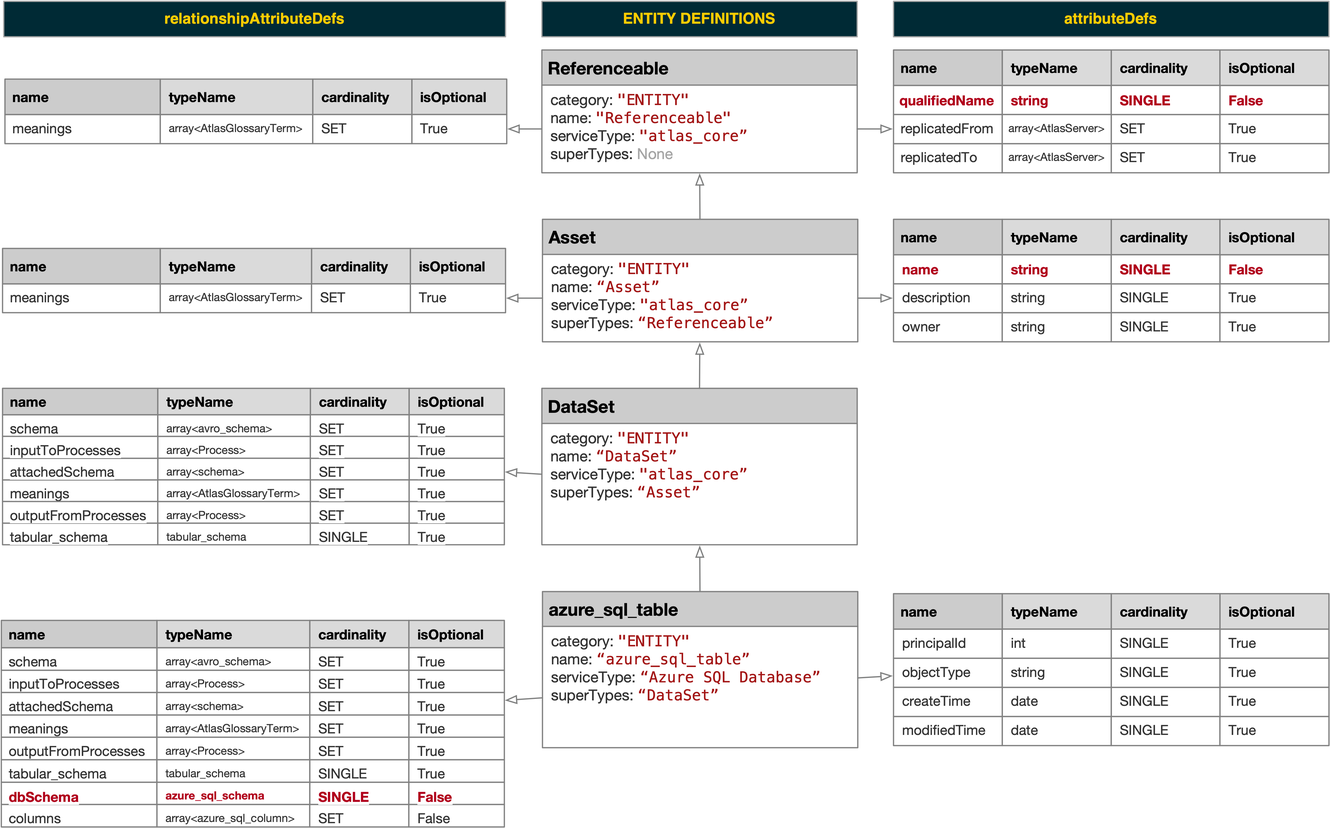
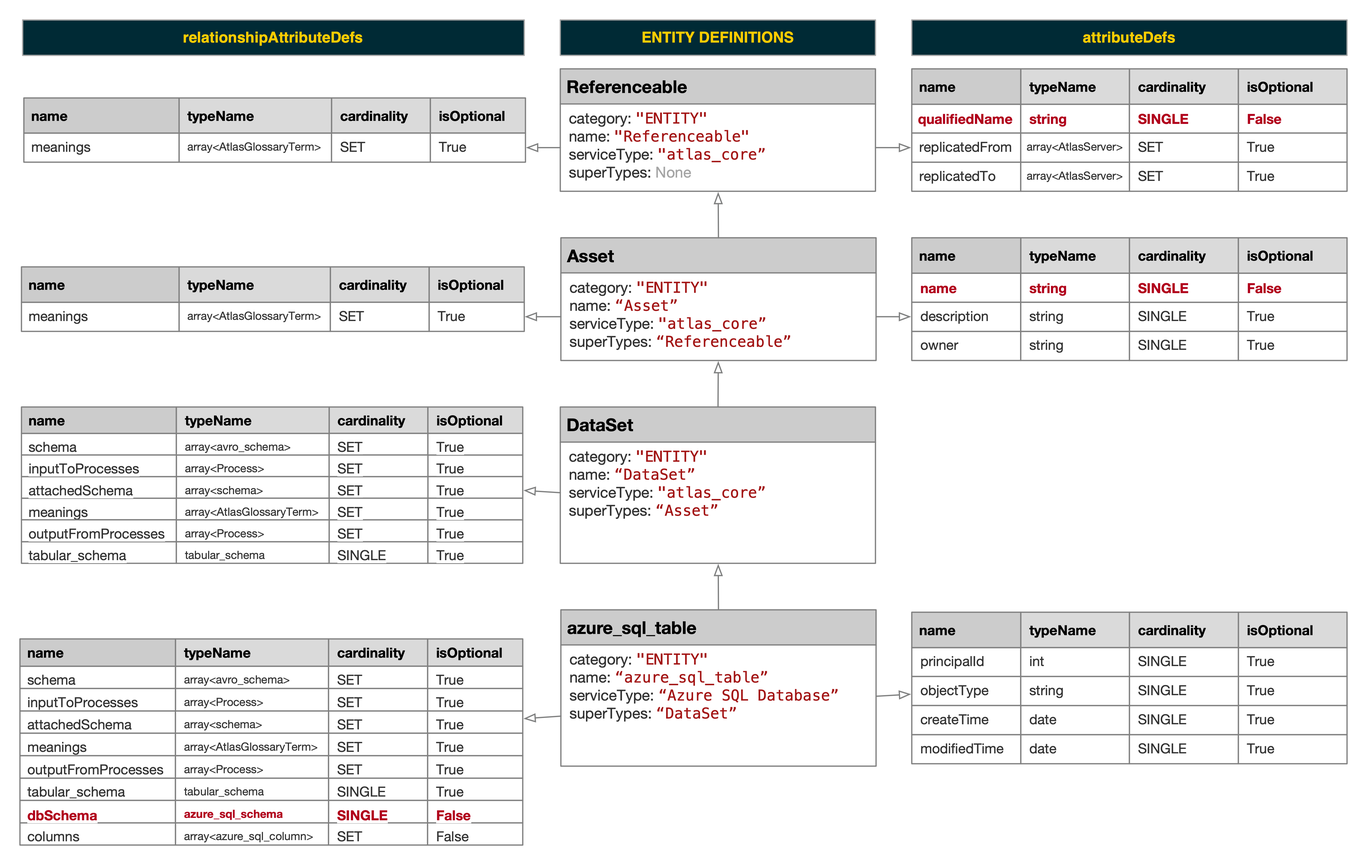
relationship

diff --git a/slides/slides.html b/slides/slides.html
@@ -61,24 +61,19 @@
 </foreignObject><foreignObject width="1280" height="720" data-marpit-advanced-background="pseudo"><section style="" data-marpit-advanced-background="pseudo"></section></foreignObject></svg><svg data-marpit-svg="" viewBox="0 0 1280 720"><foreignObject width="1280" height="720"><section data-marpit-advanced-background="background"><div data-marpit-advanced-background-container="true" data-marpit-advanced-background-direction="horizontal"><figure style="background-image:url(&quot;../image/def_classification.png&quot;);background-size:contain;"></figure></div></section></foreignObject><foreignObject width="1280" height="720"><section id="12" data-marpit-advanced-background="content"></section>
 </foreignObject><foreignObject width="1280" height="720" data-marpit-advanced-background="pseudo"><section style="" data-marpit-advanced-background="pseudo"></section></foreignObject></svg><svg data-marpit-svg="" viewBox="0 0 1280 720"><foreignObject width="1280" height="720"><section data-marpit-advanced-background="background"><div data-marpit-advanced-background-container="true" data-marpit-advanced-background-direction="horizontal"><figure style="background-image:url(&quot;../image/def_relationship.png&quot;);background-size:contain;"></figure></div></section></foreignObject><foreignObject width="1280" height="720"><section id="13" data-marpit-advanced-background="content"></section>
 </foreignObject><foreignObject width="1280" height="720" data-marpit-advanced-background="pseudo"><section style="" data-marpit-advanced-background="pseudo"></section></foreignObject></svg><svg data-marpit-svg="" viewBox="0 0 1280 720"><foreignObject width="1280" height="720"><section data-marpit-advanced-background="background"><div data-marpit-advanced-background-container="true" data-marpit-advanced-background-direction="horizontal"><figure style="background-image:url(&quot;../image/def_entity.png&quot;);background-size:contain;"></figure></div></section></foreignObject><foreignObject width="1280" height="720"><section id="14" data-marpit-advanced-background="content"></section>
-</foreignObject><foreignObject width="1280" height="720" data-marpit-advanced-background="pseudo"><section style="" data-marpit-advanced-background="pseudo"></section></foreignObject></svg><svg data-marpit-svg="" viewBox="0 0 1280 720"><foreignObject width="1280" height="720"><section id="15" data-footer="https://atlas.apache.org/2.0.0/TypeSystem.html">
+</foreignObject><foreignObject width="1280" height="720" data-marpit-advanced-background="pseudo"><section style="" data-marpit-advanced-background="pseudo"></section></foreignObject></svg><svg data-marpit-svg="" viewBox="0 0 1280 720"><foreignObject width="1280" height="720"><section data-marpit-advanced-background="background"><div data-marpit-advanced-background-container="true" data-marpit-advanced-background-direction="horizontal"><figure style="background-image:url(&quot;../image/def_entity_full.png&quot;);background-size:contain;"></figure></div></section></foreignObject><foreignObject width="1280" height="720"><section id="15" data-marpit-advanced-background="content"></section>
+</foreignObject><foreignObject width="1280" height="720" data-marpit-advanced-background="pseudo"><section style="" data-marpit-advanced-background="pseudo"></section></foreignObject></svg><svg data-marpit-svg="" viewBox="0 0 1280 720"><foreignObject width="1280" height="720"><section id="16" data-footer="https://atlas.apache.org/2.0.0/TypeSystem.html">
 <h3><img class="emoji" draggable="false" alt="📘" src="https://twemoji.maxcdn.com/2/svg/1f4d8.svg" data-marp-twemoji=""/> Entities</h3>
 <blockquote>
 <p><em>&quot;An ‘entity’ in Atlas is a specific value or instance of an Entity ‘type’ and thus represents a specific metadata object in the real world. Referring back to our analogy of Object Oriented Programming languages, an ‘instance’ is an ‘Object’ of a certain ‘Class’.&quot;</em></p>
 </blockquote>
 <footer><a href="https://atlas.apache.org/2.0.0/TypeSystem.html">https://atlas.apache.org/2.0.0/TypeSystem.html</a></footer>
 </section>
-</foreignObject></svg><svg data-marpit-svg="" viewBox="0 0 1280 720"><foreignObject width="1280" height="720"><section id="16">
-<h3><img class="emoji" draggable="false" alt="📘" src="https://twemoji.maxcdn.com/2/svg/1f4d8.svg" data-marp-twemoji=""/> Entity Example (azure_sql_table)</h3>
-<pre><code class="language-json"><svg data-marp-fitting="svg" data-marp-fitting-code><foreignObject><span data-marp-fitting-svg-content><span data-marp-fitting-svg-content-wrap>{
-    <span class="hljs-attr">&quot;name&quot;</span>: <span class="hljs-string">&quot;Taygan&quot;</span>
-}
-</span></span></foreignObject></svg></code></pre>
-</section>
-</foreignObject></svg><svg data-marpit-svg="" viewBox="0 0 1280 720"><foreignObject width="1280" height="720"><section id="17">
+</foreignObject></svg><svg data-marpit-svg="" viewBox="0 0 1280 720"><foreignObject width="1280" height="720"><section data-marpit-advanced-background="background"><div data-marpit-advanced-background-container="true" data-marpit-advanced-background-direction="horizontal"><figure style="background-image:url(&quot;../image/entity.png&quot;);background-size:contain;"></figure></div></section></foreignObject><foreignObject width="1280" height="720"><section id="17" data-marpit-advanced-background="content"></section>
+</foreignObject><foreignObject width="1280" height="720" data-marpit-advanced-background="pseudo"><section style="" data-marpit-advanced-background="pseudo"></section></foreignObject></svg><svg data-marpit-svg="" viewBox="0 0 1280 720"><foreignObject width="1280" height="720"><section id="18">
 <h2><img class="emoji" draggable="false" alt="🚀" src="https://twemoji.maxcdn.com/2/svg/1f680.svg" data-marp-twemoji=""/> Getting Started</h2>
 </section>
-</foreignObject></svg><svg data-marpit-svg="" viewBox="0 0 1280 720"><foreignObject width="1280" height="720"><section id="18" data-marpit-fragments="3" data-footer="https://docs.microsoft.com/en-us/azure/purview/tutorial-using-rest-apis#prerequisites">
+</foreignObject></svg><svg data-marpit-svg="" viewBox="0 0 1280 720"><foreignObject width="1280" height="720"><section id="19" data-marpit-fragments="3" data-footer="https://docs.microsoft.com/en-us/azure/purview/tutorial-using-rest-apis#prerequisites">
 <h3><img class="emoji" draggable="false" alt="🤔" src="https://twemoji.maxcdn.com/2/svg/1f914.svg" data-marp-twemoji=""/> Prerequisites</h3>
 <ul>
 <li data-marpit-fragment="1">An existing <strong>Azure Purview</strong> account.</li>
@@ -87,7 +82,7 @@
 </ul>
 <footer><a href="https://docs.microsoft.com/en-us/azure/purview/tutorial-using-rest-apis#prerequisites">https://docs.microsoft.com/en-us/azure/purview/tutorial-using-rest-apis#prerequisites</a></footer>
 </section>
-</foreignObject></svg><svg data-marpit-svg="" viewBox="0 0 1280 720"><foreignObject width="1280" height="720"><section id="19" data-marpit-fragments="3" data-footer="https://docs.microsoft.com/en-us/azure/purview/tutorial-using-rest-apis#create-a-service-principal-application">
+</foreignObject></svg><svg data-marpit-svg="" viewBox="0 0 1280 720"><foreignObject width="1280" height="720"><section id="20" data-marpit-fragments="3" data-footer="https://docs.microsoft.com/en-us/azure/purview/tutorial-using-rest-apis#create-a-service-principal-application">
 <h3><img class="emoji" draggable="false" alt="🌐" src="https://twemoji.maxcdn.com/2/svg/1f310.svg" data-marp-twemoji=""/> Create a Service Principal</h3>
 <ol>
 <li>
@@ -113,7 +108,7 @@
 </ol>
 <footer><a href="https://docs.microsoft.com/en-us/azure/purview/tutorial-using-rest-apis#create-a-service-principal-application">https://docs.microsoft.com/en-us/azure/purview/tutorial-using-rest-apis#create-a-service-principal-application</a></footer>
 </section>
-</foreignObject></svg><svg data-marpit-svg="" viewBox="0 0 1280 720"><foreignObject width="1280" height="720"><section id="20">
+</foreignObject></svg><svg data-marpit-svg="" viewBox="0 0 1280 720"><foreignObject width="1280" height="720"><section id="21">
 <ol start="6">
 <li>
 <p>Copy the values <strong>Application (client) ID</strong> and the <strong>Directory (tenant) ID</strong> for later use.</p>
@@ -121,7 +116,7 @@
 </li>
 </ol>
 </section>
-</foreignObject></svg><svg data-marpit-svg="" viewBox="0 0 1280 720"><foreignObject width="1280" height="720"><section id="21" data-footer="https://docs.microsoft.com/en-us/azure/purview/tutorial-using-rest-apis#create-a-service-principal-application">
+</foreignObject></svg><svg data-marpit-svg="" viewBox="0 0 1280 720"><foreignObject width="1280" height="720"><section id="22" data-footer="https://docs.microsoft.com/en-us/azure/purview/tutorial-using-rest-apis#create-a-service-principal-application">
 <h3><img class="emoji" draggable="false" alt="🔑" src="https://twemoji.maxcdn.com/2/svg/1f511.svg" data-marp-twemoji=""/> Create a Client Secret</h3>
 <p>In order to use the service principal, we need generate a password (aka client secret).</p>
 <ol>
@@ -134,7 +129,7 @@
 </ol>
 <footer><a href="https://docs.microsoft.com/en-us/azure/purview/tutorial-using-rest-apis#create-a-service-principal-application">https://docs.microsoft.com/en-us/azure/purview/tutorial-using-rest-apis#create-a-service-principal-application</a></footer>
 </section>
-</foreignObject></svg><svg data-marpit-svg="" viewBox="0 0 1280 720"><foreignObject width="1280" height="720"><section id="22">
+</foreignObject></svg><svg data-marpit-svg="" viewBox="0 0 1280 720"><foreignObject width="1280" height="720"><section id="23">
 <ol start="7">
 <li>
 <p>Copy the value <strong>client secret</strong>  for later use.</p>
@@ -142,7 +137,7 @@
 </li>
 </ol>
 </section>
-</foreignObject></svg><svg data-marpit-svg="" viewBox="0 0 1280 720"><foreignObject width="1280" height="720"><section id="23" data-footer="https://docs.microsoft.com/en-us/azure/purview/tutorial-using-rest-apis#create-a-service-principal-application">
+</foreignObject></svg><svg data-marpit-svg="" viewBox="0 0 1280 720"><foreignObject width="1280" height="720"><section id="24" data-footer="https://docs.microsoft.com/en-us/azure/purview/tutorial-using-rest-apis#create-a-service-principal-application">
 <h3><img class="emoji" draggable="false" alt="🔒" src="https://twemoji.maxcdn.com/2/svg/1f512.svg" data-marp-twemoji=""/> Configure Azure Purview to Trust the Service Principal</h3>
 <ol>
 <li>From the <a href="https://portal.azure.com">Azure Portal</a>, navigate to your <strong>Azure Purview</strong> account.</li>
@@ -155,7 +150,7 @@
 </ol>
 <footer><a href="https://docs.microsoft.com/en-us/azure/purview/tutorial-using-rest-apis#create-a-service-principal-application">https://docs.microsoft.com/en-us/azure/purview/tutorial-using-rest-apis#create-a-service-principal-application</a></footer>
 </section>
-</foreignObject></svg><svg data-marpit-svg="" viewBox="0 0 1280 720"><foreignObject width="1280" height="720"><section id="24"></section>
+</foreignObject></svg><svg data-marpit-svg="" viewBox="0 0 1280 720"><foreignObject width="1280" height="720"><section id="25"></section>
 <script>!function(){"use strict";const t="marpitSVGPolyfill:setZoomFactor,",e=Symbol();let r,o;function n(n){const i="object"==typeof n&&n.target||document,a="object"==typeof n?n.zoom:n;window[e]||(Object.defineProperty(window,e,{configurable:!0,value:!0}),window.addEventListener("message",(({data:e,origin:r})=>{if(r===window.origin)try{if(e&&"string"==typeof e&&e.startsWith(t)){const[,t]=e.split(","),r=Number.parseFloat(t);Number.isNaN(r)||(o=r)}}catch(t){console.error(t)}})));let l=!1;Array.from(i.querySelectorAll("svg[data-marpit-svg]"),(t=>{var e,n,i,s;t.style.transform||(t.style.transform="translateZ(0)");const c=a||o||t.currentScale||1;r!==c&&(r=c,l=c);const d=t.getBoundingClientRect(),{length:u}=t.children;for(let r=0;r<u;r+=1){const o=t.children[r],a=o.getScreenCTM();if(a){const t=null!==(n=null===(e=o.x)||void 0===e?void 0:e.baseVal.value)&&void 0!==n?n:0,r=null!==(s=null===(i=o.y)||void 0===i?void 0:i.baseVal.value)&&void 0!==s?s:0,l=o.firstElementChild,{style:u}=l;u.transformOrigin||(u.transformOrigin=`${-t}px ${-r}px`),u.transform=`scale(${c}) matrix(${a.a}, ${a.b}, ${a.c}, ${a.d}, ${a.e-d.left}, ${a.f-d.top}) translateZ(0.0001px)`}}})),!1!==l&&Array.from(i.querySelectorAll("iframe"),(({contentWindow:e})=>{null==e||e.postMessage(`${t}${l}`,"null"===window.origin?"*":window.origin)}))}r=1,o=void 0;const i=(t,e,r)=>{if(t.getAttribute(e)!==r)return t.setAttribute(e,r),!0};function a({once:t=!1,target:e=document}={}){const r="Apple Computer, Inc."===navigator.vendor?[n]:[];let o=!t;const a=()=>{for(const t of r)t({target:e});!function(t=document){Array.from(t.querySelectorAll('svg[data-marp-fitting="svg"]'),(t=>{var e;const r=t.firstChild,o=r.firstChild,{scrollWidth:n,scrollHeight:a}=o;let l,s=1;if(t.hasAttribute("data-marp-fitting-code")&&(l=null===(e=t.parentElement)||void 0===e?void 0:e.parentElement),t.hasAttribute("data-marp-fitting-math")&&(l=t.parentElement),l){const t=getComputedStyle(l),e=Math.ceil(l.clientWidth-parseFloat(t.paddingLeft||"0")-parseFloat(t.paddingRight||"0"));e&&(s=e)}const c=Math.max(n,s),d=Math.max(a,1),u=`0 0 ${c} ${d}`;i(r,"width",`${c}`),i(r,"height",`${d}`),i(t,"preserveAspectRatio",getComputedStyle(t).getPropertyValue("--preserve-aspect-ratio")||"xMinYMin meet"),i(t,"viewBox",u)&&t.classList.toggle("__reflow__")}))}(e),o&&window.requestAnimationFrame(a)};return a(),()=>{o=!1}}const l=Symbol(),s=document.currentScript;((t=document)=>{if("undefined"==typeof window)throw new Error("Marp Core's browser script is valid only in browser context.");if(t[l])return t[l];const e=a({target:t}),r=()=>{e(),delete t[l]};Object.defineProperty(t,l,{configurable:!0,value:r})})(s?s.getRootNode():document)}();
 </script></foreignObject></svg></div><script>/*!! License: https://unpkg.com/@marp-team/marp-cli@0.23.3/lib/bespoke.js.LICENSE.txt */
 !function(){"use strict";var e=function(e,t){var n,r=1===(e.parent||e).nodeType?e.parent||e:document.querySelector(e.parent||e),i=[].filter.call("string"==typeof e.slides?r.querySelectorAll(e.slides):e.slides||r.children,(function(e){return"SCRIPT"!==e.nodeName})),s={},a=function(e,t){return(t=t||{}).index=i.indexOf(e),t.slide=e,t},o=function(e,t){s[e]=(s[e]||[]).filter((function(e){return e!==t}))},l=function(e,t){return(s[e]||[]).reduce((function(e,n){return e&&!1!==n(t)}),!0)},c=function(e,t){i[e]&&(n&&l("deactivate",a(n,t)),n=i[e],l("activate",a(n,t)))},d=function(e,t){var r=i.indexOf(n)+e;l(e>0?"next":"prev",a(n,t))&&c(r,t)},u={off:o,on:function(e,t){return(s[e]||(s[e]=[])).push(t),o.bind(null,e,t)},fire:l,slide:function(e,t){if(!arguments.length)return i.indexOf(n);l("slide",a(i[e],t))&&c(e,t)},next:d.bind(null,1),prev:d.bind(null,-1),parent:r,slides:i,destroy:function(e){l("destroy",a(n,e)),s={}}};return(t||[]).forEach((function(e){e(u)})),n||c(0),u};function t(e){e.parent.classList.add("bespoke-marp-parent"),e.slides.forEach((e=>e.classList.add("bespoke-marp-slide"))),e.on("activate",(t=>{const n=t.slide,r=!n.classList.contains("bespoke-marp-active");e.slides.forEach((e=>{e.classList.remove("bespoke-marp-active"),e.setAttribute("aria-hidden","true")})),n.classList.add("bespoke-marp-active"),n.removeAttribute("aria-hidden"),r&&(n.classList.add("bespoke-marp-active-ready"),document.body.clientHeight,n.classList.remove("bespoke-marp-active-ready"))}))}function n(e){let t=0,n=0;Object.defineProperty(e,"fragments",{enumerable:!0,value:e.slides.map((e=>[null,...e.querySelectorAll("[data-marpit-fragment]")]))});const r=r=>void 0!==e.fragments[t][n+r],i=(r,i)=>{t=r,n=i,e.fragments.forEach(((e,t)=>{e.forEach(((e,n)=>{if(null==e)return;const s=t<r||t===r&&n<=i;e.setAttribute("data-bespoke-marp-fragment",s?"active":"inactive"),t===r&&n===i?e.setAttribute("data-bespoke-marp-current-fragment","current"):e.removeAttribute("data-bespoke-marp-current-fragment")}))})),e.fragmentIndex=i;const s={slide:e.slides[r],index:r,fragments:e.fragments[r],fragmentIndex:i};e.fire("fragment",s)};e.on("next",(({fragment:s=!0})=>{if(s){if(r(1))return i(t,n+1),!1;const s=t+1;e.fragments[s]&&i(s,0)}else{const r=e.fragments[t].length;if(n+1<r)return i(t,r-1),!1;const s=e.fragments[t+1];s&&i(t+1,s.length-1)}})),e.on("prev",(({fragment:s=!0})=>{if(r(-1)&&s)return i(t,n-1),!1;const a=t-1;e.fragments[a]&&i(a,e.fragments[a].length-1)})),e.on("slide",(({index:t,fragment:n})=>{let r=0;if(void 0!==n){const i=e.fragments[t];if(i){const{length:e}=i;r=-1===n?e-1:Math.min(Math.max(n,0),e-1)}}i(t,r)})),i(0,0)}var r,i=(function(e){!function(){var t="undefined"!=typeof window&&void 0!==window.document?window.document:{},n=e.exports,r=function(){for(var e,n=[["requestFullscreen","exitFullscreen","fullscreenElement","fullscreenEnabled","fullscreenchange","fullscreenerror"],["webkitRequestFullscreen","webkitExitFullscreen","webkitFullscreenElement","webkitFullscreenEnabled","webkitfullscreenchange","webkitfullscreenerror"],["webkitRequestFullScreen","webkitCancelFullScreen","webkitCurrentFullScreenElement","webkitCancelFullScreen","webkitfullscreenchange","webkitfullscreenerror"],["mozRequestFullScreen","mozCancelFullScreen","mozFullScreenElement","mozFullScreenEnabled","mozfullscreenchange","mozfullscreenerror"],["msRequestFullscreen","msExitFullscreen","msFullscreenElement","msFullscreenEnabled","MSFullscreenChange","MSFullscreenError"]],r=0,i=n.length,s={};r<i;r++)if((e=n[r])&&e[1]in t){for(r=0;r<e.length;r++)s[n[0][r]]=e[r];return s}return!1}(),i={change:r.fullscreenchange,error:r.fullscreenerror},s={request:function(e,n){return new Promise(function(i,s){var a=function(){this.off("change",a),i()}.bind(this);this.on("change",a);var o=(e=e||t.documentElement)[r.requestFullscreen](n);o instanceof Promise&&o.then(a).catch(s)}.bind(this))},exit:function(){return new Promise(function(e,n){if(this.isFullscreen){var i=function(){this.off("change",i),e()}.bind(this);this.on("change",i);var s=t[r.exitFullscreen]();s instanceof Promise&&s.then(i).catch(n)}else e()}.bind(this))},toggle:function(e,t){return this.isFullscreen?this.exit():this.request(e,t)},onchange:function(e){this.on("change",e)},onerror:function(e){this.on("error",e)},on:function(e,n){var r=i[e];r&&t.addEventListener(r,n,!1)},off:function(e,n){var r=i[e];r&&t.removeEventListener(r,n,!1)},raw:r};r?(Object.defineProperties(s,{isFullscreen:{get:function(){return Boolean(t[r.fullscreenElement])}},element:{enumerable:!0,get:function(){return t[r.fullscreenElement]}},isEnabled:{enumerable:!0,get:function(){return Boolean(t[r.fullscreenEnabled])}}}),n?e.exports=s:window.screenfull=s):n?e.exports={isEnabled:!1}:window.screenfull={isEnabled:!1}}()}(r={exports:{}},r.exports),r.exports);function s(e){e.fullscreen=()=>{i.isEnabled&&i.toggle(document.body)},document.addEventListener("keydown",(t=>{70!==t.which&&122!==t.which||t.altKey||t.ctrlKey||t.metaKey||!i.isEnabled||(e.fullscreen(),t.preventDefault())}))}function a(e=2e3){return t=>{let n;function r(){n&&clearTimeout(n),n=setTimeout((()=>{t.parent.classList.add("bespoke-marp-inactive"),t.fire("marp-inactive")}),e),t.parent.classList.contains("bespoke-marp-inactive")&&(t.parent.classList.remove("bespoke-marp-inactive"),t.fire("marp-active"))}document.addEventListener("mousedown",r),document.addEventListener("mousemove",r),document.addEventListener("touchend",r),setTimeout(r,0)}}const o=["AUDIO","BUTTON","INPUT","SELECT","TEXTAREA","VIDEO"];function l(e){e.parent.addEventListener("keydown",(e=>{if(!e.target)return;const t=e.target;(o.includes(t.nodeName)||"true"===t.contentEditable)&&e.stopPropagation()}))}function c(e){window.addEventListener("load",(()=>{for(const t of e.slides){const e=t.querySelector("[data-marp-fitting]")?"":"hideable";t.setAttribute("data-bespoke-marp-load",e)}}))}var d;function u({interval:e=200}={}){return t=>{document.addEventListener("keydown",(e=>{if(32===e.which&&e.shiftKey)t.prev();else if(33===e.which||37===e.which||38===e.which)t.prev({fragment:!e.shiftKey});else if(32!==e.which||e.shiftKey)if(34===e.which||39===e.which||40===e.which)t.next({fragment:!e.shiftKey});else if(35===e.which)t.slide(t.slides.length-1,{fragment:-1});else{if(36!==e.which)return;t.slide(0)}else t.next();e.preventDefault()}));let n,r,i=0;t.parent.addEventListener("wheel",(s=>{let a=!1;const o=(e,t)=>{e&&(a=a||function(e,t){return function(e,t){const n=t===d.X?"Width":"Height";return e[`client${n}`]<e[`scroll${n}`]}(e,t)&&function(e,t){const{overflow:n}=e,r=e[`overflow${t}`];return"auto"===n||"scroll"===n||"auto"===r||"scroll"===r}(getComputedStyle(e),t)}(e,t)),(null==e?void 0:e.parentElement)&&o(e.parentElement,t)};if(0!==s.deltaX&&o(s.target,d.X),0!==s.deltaY&&o(s.target,d.Y),a)return;s.preventDefault(),r&&clearTimeout(r),r=setTimeout((()=>{n=0}),e);const l=Date.now()-i<e,c=Math.sqrt(Math.pow(s.deltaX,2)+Math.pow(s.deltaY,2)),u=c<=n;if(n=c,l||u)return;let f;(s.deltaX>0||s.deltaY>0)&&(f="next"),(s.deltaX<0||s.deltaY<0)&&(f="prev"),f&&(t[f](),i=Date.now())}))}}!function(e){e.X="X",e.Y="Y"}(d||(d={}));const f=(...e)=>history.replaceState(...e),p="data-bespoke-view",m="presenter",h="next",g=["",m,h],v=(e,{protocol:t,host:n,pathname:r,hash:i}=location)=>{const s=e.toString();return`${t}//${n}${r}${s?"?":""}${s}${i}`},b=()=>{const e=document.body.getAttribute(p);if(g.includes(e))return e;throw new Error("View mode is not assigned.")},w=e=>new URLSearchParams(location.search).get(e),y=(e,t={})=>{var n;const r=Object.assign({location:location,setter:f},t),i=new URLSearchParams(r.location.search);for(const t of Object.keys(e)){const n=e[t];"string"==typeof n?i.set(t,n):i.delete(t)}try{r.setter(Object.assign({},null!==(n=window.history.state)&&void 0!==n?n:{}),"",v(i,r.location))}catch(e){console.error(e)}},x={available:(()=>{try{return localStorage.setItem("bespoke-marp","bespoke-marp"),localStorage.removeItem("bespoke-marp"),!0}catch(e){return console.warn("Warning: Using localStorage is restricted in the current host so some features may not work."),!1}})(),get:e=>{try{return localStorage.getItem(e)}catch(e){return null}},set:(e,t)=>{try{return localStorage.setItem(e,t),!0}catch(e){return!1}},remove:e=>{try{return localStorage.removeItem(e),!0}catch(e){return!1}}};function E(e=".bespoke-marp-osc"){const t=document.querySelector(e);if(!t)return()=>{};const n=(e,n)=>{t.querySelectorAll(`[data-bespoke-marp-osc=${JSON.stringify(e)}]`).forEach(n)};return i.isEnabled||n("fullscreen",(e=>e.style.display="none")),x.available||n("presenter",(e=>{e.disabled=!0,e.title="Presenter view is disabled due to restricted localStorage."})),e=>{t.addEventListener("click",(t=>{if(t.target instanceof HTMLElement){const{bespokeMarpOsc:n}=t.target.dataset;switch(n&&t.target.blur(),n){case"next":e.next({fragment:!t.shiftKey});break;case"prev":e.prev({fragment:!t.shiftKey});break;case"fullscreen":"function"==typeof e.fullscreen&&i.isEnabled&&e.fullscreen();break;case"presenter":e.openPresenterView()}}})),e.parent.appendChild(t),e.on("activate",(({index:t})=>{n("page",(n=>n.textContent=`Page ${t+1} of ${e.slides.length}`))})),e.on("fragment",(({index:t,fragments:r,fragmentIndex:i})=>{n("prev",(e=>e.disabled=0===t&&0===i)),n("next",(n=>n.disabled=t===e.slides.length-1&&i===r.length-1))})),e.on("marp-active",(()=>t.removeAttribute("aria-hidden"))),e.on("marp-inactive",(()=>t.setAttribute("aria-hidden","true"))),i.isEnabled&&i.onchange((()=>n("fullscreen",(e=>e.classList.toggle("exit",i.isEnabled&&i.isFullscreen)))))}}function k(e){window.addEventListener("message",(t=>{if(t.origin!==window.origin)return;const[n,r]=t.data.split(":");if("navigate"===n){const[t,n]=r.split(",");let i=Number.parseInt(t,10),s=Number.parseInt(n,10)+1;s>=e.fragments[i].length&&(i+=1,s=0),e.slide(i,{fragment:s})}}))}function L(e){if(!(e=>e.syncKey&&"string"==typeof e.syncKey)(e))throw new Error("The current instance of Bespoke.js is invalid for Marp bespoke presenter plugin.");Object.defineProperties(e,{openPresenterView:{enumerable:!0,value:S},presenterUrl:{enumerable:!0,get:I}}),x.available&&document.addEventListener("keydown",(t=>{80!==t.which||t.altKey||t.ctrlKey||t.metaKey||(t.preventDefault(),e.openPresenterView())}))}function S(){const e=Math.max(Math.floor(.85*window.innerWidth),640),t=Math.max(Math.floor(.85*window.innerHeight),360);return window.open(this.presenterUrl,`bespoke-marp-presenter-${this.syncKey}`,`width=${e},height=${t},menubar=no,toolbar=no`)}function I(){const e=new URLSearchParams(location.search);return e.set("view","presenter"),e.set("sync",this.syncKey),v(e)}var M=["area","base","br","col","command","embed","hr","img","input","keygen","link","meta","param","source","track","wbr"];let P=e=>String(e).replace(/[&<>"']/g,(e=>`&${O[e]};`)),O={"&":"amp","<":"lt",">":"gt",'"':"quot","'":"apos"},F="dangerouslySetInnerHTML",$={className:"class",htmlFor:"for"},q={};function K(e,t){let n=[],r="";t=t||{};for(let e=arguments.length;e-- >2;)n.push(arguments[e]);if("function"==typeof e)return t.children=n.reverse(),e(t);if(e){if(r+="<"+e,t)for(let e in t)!1!==t[e]&&null!=t[e]&&e!==F&&(r+=` ${$[e]?$[e]:P(e)}="${P(t[e])}"`);r+=">"}if(-1===M.indexOf(e)){if(t[F])r+=t[F].__html;else for(;n.length;){let e=n.pop();if(e)if(e.pop)for(let t=e.length;t--;)n.push(e[t]);else r+=!0===q[e]?e:P(e)}r+=e?`</${e}>`:""}return q[r]=!0,r}const T=({children:e})=>K(null,null,...e),A="bespoke-marp-presenter-container",N="bespoke-marp-presenter-next",C="bespoke-marp-presenter-next-container",j="bespoke-marp-presenter-note-container",D="bespoke-marp-presenter-info-container",R="bespoke-marp-presenter-info-page",X="bespoke-marp-presenter-info-page-text",B="bespoke-marp-presenter-info-page-prev",U="bespoke-marp-presenter-info-page-next",V="bespoke-marp-presenter-info-time",Y="bespoke-marp-presenter-info-timer";function z(e){const{title:t}=document;document.title="[Presenter view]"+(t?` - ${t}`:"");const n={},r=e=>(n[e]=n[e]||document.querySelector(`.${e}`),n[e]);document.body.appendChild((e=>{const t=document.createElement("div");return t.className=A,t.appendChild(e),t.insertAdjacentHTML("beforeend",K(T,null,K("div",{class:C},K("iframe",{class:N,src:"?view=next"})),K("div",{class:j}),K("div",{class:D},K("div",{class:R},K("button",{class:B,tabindex:"-1",title:"Previous"},"Previous"),K("span",{class:X}),K("button",{class:U,tabindex:"-1",title:"Next"},"Next")),K("time",{class:V,title:"Current time"}),K("div",{class:Y})))),t})(e.parent)),(e=>{r(C).addEventListener("click",(()=>e.next()));const t=r(N),n=(i=t,(e,t)=>{var n;return null===(n=i.contentWindow)||void 0===n?void 0:n.postMessage(`navigate:${e},${t}`,"null"===window.origin?"*":window.origin)});var i;t.addEventListener("load",(()=>{r(C).classList.add("active"),n(e.slide(),e.fragmentIndex),e.on("fragment",(({index:e,fragmentIndex:t})=>n(e,t)))}));const s=document.querySelectorAll(".bespoke-marp-note");s.forEach((e=>{e.addEventListener("keydown",(e=>e.stopPropagation())),r(j).appendChild(e)})),e.on("activate",(()=>s.forEach((t=>t.classList.toggle("active",t.dataset.index==e.slide()))))),e.on("activate",(({index:t})=>{r(X).textContent=`${t+1} / ${e.slides.length}`}));const a=r(B),o=r(U);a.addEventListener("click",(t=>{a.blur(),e.prev({fragment:!t.shiftKey})})),o.addEventListener("click",(t=>{o.blur(),e.next({fragment:!t.shiftKey})})),e.on("fragment",(({index:t,fragments:n,fragmentIndex:r})=>{a.disabled=0===t&&0===r,o.disabled=t===e.slides.length-1&&r===n.length-1}));const l=()=>r(V).textContent=(new Date).toLocaleTimeString();l(),setInterval(l,250)})(e)}function H(e){const t=b();return t===h&&e.appendChild(document.createElement("span")),{"":L,[m]:z,[h]:k}[t]}function J(e){e.on("activate",(t=>{document.querySelectorAll(".bespoke-progress-parent > .bespoke-progress-bar").forEach((n=>{n.style.flexBasis=100*t.index/(e.slides.length-1)+"%"}))}))}const W=e=>{const t=Number.parseInt(e,10);return Number.isNaN(t)?null:t};function _(e={}){const t=Object.assign({history:!0},e);return e=>{let n=!0;const r=e=>{const t=n;try{return n=!0,e()}finally{n=t}},i=(t={fragment:!0})=>{((t,n)=>{const{fragments:r,slides:i}=e,s=Math.max(0,Math.min(t,i.length-1)),a=Math.max(0,Math.min(n||0,r[s].length-1));s===e.slide()&&a===e.fragmentIndex||e.slide(s,{fragment:a})})((W(location.hash.slice(1))||1)-1,t.fragment?W(w("f")||""):null)};e.on("fragment",(({index:e,fragmentIndex:r})=>{n||y({f:0===r||r.toString()},{location:Object.assign(Object.assign({},location),{hash:`#${e+1}`}),setter:(...e)=>t.history?history.pushState(...e):history.replaceState(...e)})})),setTimeout((()=>{i(),window.addEventListener("hashchange",(()=>r((()=>{i({fragment:!1}),y({f:void 0})})))),window.addEventListener("popstate",(()=>{n||r((()=>i()))})),n=!1}),0)}}function G(e={}){var t;const n=e.key||(null===(t=window.history.state)||void 0===t?void 0:t.marpBespokeSyncKey)||Math.random().toString(36).slice(2),r=`bespoke-marp-sync-${n}`;var i;i={marpBespokeSyncKey:n},y({},{setter:(e,...t)=>f(Object.assign(Object.assign({},e),i),...t)});const s=()=>{const e=x.get(r);return e?JSON.parse(e):Object.create(null)},a=e=>{const t=s(),n=Object.assign(Object.assign({},t),e(t));return x.set(r,JSON.stringify(n)),n},o=()=>{window.removeEventListener("pageshow",o),a((e=>({reference:(e.reference||0)+1})))};return e=>{o(),Object.defineProperty(e,"syncKey",{value:n,enumerable:!0});let t=!0;setTimeout((()=>{e.on("fragment",(e=>{t&&a((()=>({index:e.index,fragmentIndex:e.fragmentIndex})))}))}),0),window.addEventListener("storage",(n=>{if(n.key===r&&n.oldValue&&n.newValue){const r=JSON.parse(n.oldValue),i=JSON.parse(n.newValue);if(r.index!==i.index||r.fragmentIndex!==i.fragmentIndex)try{t=!1,e.slide(i.index,{fragment:i.fragmentIndex})}finally{t=!0}}}));const i=()=>{const{reference:e}=s();void 0===e||e<=1?x.remove(r):a((()=>({reference:e-1})))};window.addEventListener("pagehide",(e=>{e.persisted&&window.addEventListener("pageshow",o),i()})),e.on("destroy",i)}}function Q({slope:e=Math.tan(-35*Math.PI/180),swipeThreshold:t=30}={}){return n=>{let r;const i=n.parent,s=e=>{const t=i.getBoundingClientRect();return{x:e.pageX-(t.left+t.right)/2,y:e.pageY-(t.top+t.bottom)/2}};i.addEventListener("touchstart",(e=>{r=1===e.touches.length?s(e.touches[0]):void 0}),{passive:!0}),i.addEventListener("touchmove",(e=>{if(r)if(1===e.touches.length){e.preventDefault();const t=s(e.touches[0]),n=t.x-r.x,i=t.y-r.y;r.delta=Math.sqrt(Math.pow(Math.abs(n),2)+Math.pow(Math.abs(i),2)),r.radian=Math.atan2(n,i)}else r=void 0})),i.addEventListener("touchend",(i=>{if(r){if(r.delta&&r.delta>=t&&r.radian){let t=r.radian-e;t=(t+Math.PI)%(2*Math.PI)-Math.PI,n[t<0?"next":"prev"](),i.stopPropagation()}r=void 0}}),{passive:!0})}}function Z(e,t,n,r){return new(n||(n=Promise))((function(i,s){function a(e){try{l(r.next(e))}catch(e){s(e)}}function o(e){try{l(r.throw(e))}catch(e){s(e)}}function l(e){var t;e.done?i(e.value):(t=e.value,t instanceof n?t:new n((function(e){e(t)}))).then(a,o)}l((r=r.apply(e,t||[])).next())}))}let ee;const te=()=>(void 0===ee&&(ee="wakeLock"in navigator&&navigator.wakeLock),ee),ne=()=>Z(void 0,void 0,void 0,(function*(){const e=te();if(e)try{return yield e.request("screen")}catch(e){console.warn(e)}return null}));function re(){return Z(this,void 0,void 0,(function*(){if(!te())return;let e;const t=()=>{e&&"visible"===document.visibilityState&&ne()};return document.addEventListener("visibilitychange",t),document.addEventListener("fullscreenchange",t),e=yield ne(),e}))}!function(r=document.getElementById("p")){document.body.setAttribute(p,(()=>{const e=w("view");return e===h||e===m?e:""})());const i=(e=>{const t=w(e);return y({[e]:void 0}),t})("sync")||void 0,o=!1,d=!0;e(r,((...e)=>{const t=g.findIndex((e=>b()===e));if(t<0)throw new Error("Invalid view");return e.map((([e,n])=>e[t]&&n)).filter((e=>e))})([[d,d,o],G({key:i})],[[d,d,d],H(r)],[[d,d,o],l],[[d,d,d],t],[[d,o,o],a()],[[d,d,d],c],[[d,d,d],_({history:!1})],[[d,d,o],u()],[[d,d,o],s],[[d,o,o],J],[[d,d,o],Q()],[[d,o,o],E()],[[d,d,d],n],[[d,d,o],re]))}()}();</script></body></html>

diff --git a/slides/slides.md b/slides/slides.md
@@ -90,7 +90,10 @@ img[alt~="center"] {
 
 ---
 
-![bg fit](../image/def_relationship.png)
+<!-- _footer: "https://atlas.apache.org/2.0.0/TypeSystem.html" -->
+
+### :blue_book: Entities
+> *"An ‘entity’ in Atlas is a specific value or instance of an Entity ‘type’ and thus represents a specific metadata object in the real world. Referring back to our analogy of Object Oriented Programming languages, an ‘instance’ is an ‘Object’ of a certain ‘Class’."*
 
 ---
 
@@ -102,20 +105,22 @@ img[alt~="center"] {
 
 ---
 
-<!-- _footer: "https://atlas.apache.org/2.0.0/TypeSystem.html" -->
-
-### :blue_book: Entities
-> *"An ‘entity’ in Atlas is a specific value or instance of an Entity ‘type’ and thus represents a specific metadata object in the real world. Referring back to our analogy of Object Oriented Programming languages, an ‘instance’ is an ‘Object’ of a certain ‘Class’."*
+![bg fit](../image/entity.png)
 
 ---
 
-### :blue_book: Entity Example (azure_sql_table)
+<!-- _footer: "https://atlas.apache.org/2.0.0/TypeSystem.html" -->
 
-```json
-{
-    "name": "Taygan"
-}
-```
+### :link: Relationships
+> *"A ‘relationship’ can be established between entities (e.g. Table <---> Columns)." Relationships have 2 ends, each of which specify cardinality, an entityDef type name, and a name.*
+
+---
+
+![bg fit](../image/def_relationship.png)
+
+---
+
+![bg fit](../image/relationship.png)
 
 ---
 
